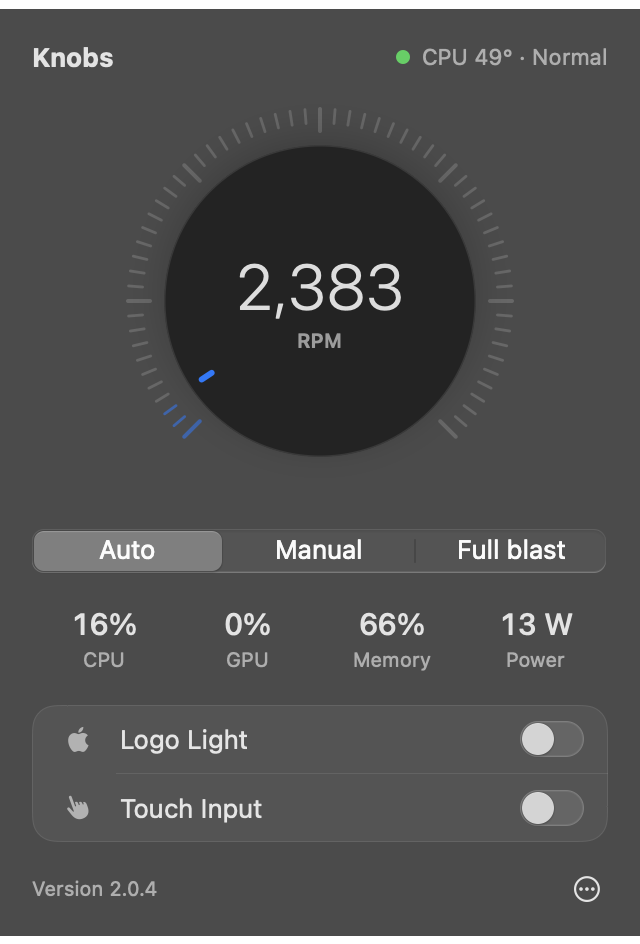
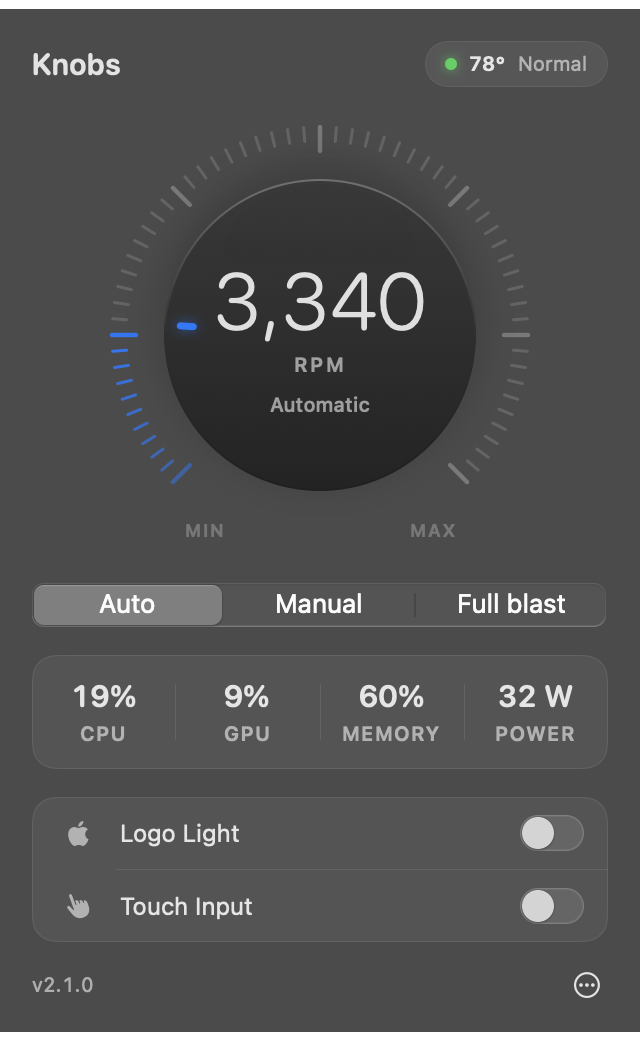
Popover redesign by Suzie: roomier knob with state label and min/max, stats panel, status pill; 2.1.0

diff --git a/Sources/Knobs/PopoverView.swift b/Sources/Knobs/PopoverView.swift
@@ -13,7 +13,7 @@ struct PopoverView: View {
     @EnvironmentObject var updater: Updater
 
     var body: some View {
-        VStack(spacing: 16) {
+        VStack(spacing: 14) {
             header
             FanKnob()
             fanControls
@@ -37,13 +37,18 @@ struct PopoverView: View {
             return t >= 95 ? ("Hot", Theme.hot) : (t >= 82 ? ("Warm", Theme.warm) : ("Normal", .green))
         }()
         return HStack {
-            Text("Knobs").font(.headline)
+            Text("Knobs").font(.system(.title3, design: .rounded).weight(.semibold))
             Spacer()
             if let t {
                 HStack(spacing: 6) {
-                    Circle().fill(dot).frame(width: 7, height: 7)
-                    Text("CPU \(Int(t))\u{00B0} \u{00B7} \(word)").font(.subheadline).monospacedDigit().foregroundStyle(.secondary)
+                    Circle().fill(dot).frame(width: 6, height: 6).shadow(color: dot.opacity(0.7), radius: 3)
+                    Text("\(Int(t))\u{00B0}").font(.caption.weight(.semibold)).monospacedDigit()
+                    Text(word).font(.caption).foregroundStyle(.secondary)
                 }
+                .padding(.horizontal, 10).padding(.vertical, 5)
+                .background(Capsule().fill(Color.primary.opacity(0.07)))
+                .overlay(Capsule().strokeBorder(Color.primary.opacity(0.08), lineWidth: 0.5))
+                .help("CPU temperature")
             }
         }
     }
@@ -65,15 +70,27 @@ struct PopoverView: View {
         case .notInstalled:
             setup("Fan control needs a one-time approval.", "Set Up\u{2026}")
         case .unavailable(let why):
-            Text(why + " Monitoring still works.").font(.caption).foregroundStyle(.secondary).multilineTextAlignment(.center)
+            HStack(alignment: .top, spacing: 8) {
+                Image(systemName: "info.circle").font(.system(size: 13, weight: .medium)).foregroundStyle(.secondary)
+                Text(why + " Monitoring still works.").font(.caption).foregroundStyle(.secondary).fixedSize(horizontal: false, vertical: true)
+                Spacer(minLength: 0)
+            }
+            .padding(.horizontal, 4)
         }
     }
 
     private func setup(_ text: String, _ button: String) -> some View {
-        VStack(spacing: 8) {
-            Text(text).font(.callout).foregroundStyle(.secondary).multilineTextAlignment(.center)
-            Button(button) { helper.enable() }.buttonStyle(.borderedProminent).controlSize(.regular)
+        HStack(alignment: .center, spacing: 12) {
+            Image(systemName: "lock.shield").font(.title2).symbolRenderingMode(.hierarchical)
+                .foregroundStyle(Color.accentColor).frame(width: 28)
+            VStack(alignment: .leading, spacing: 8) {
+                Text(text).font(.callout).foregroundStyle(.secondary).fixedSize(horizontal: false, vertical: true)
+                Button(button) { helper.enable() }.buttonStyle(.borderedProminent).controlSize(.small)
+            }
+            Spacer(minLength: 0)
         }
+        .padding(12).frame(maxWidth: .infinity, alignment: .leading)
+        .surface()
     }
 
     // MARK: numbers
@@ -84,16 +101,23 @@ struct PopoverView: View {
         let power = s.systemPowerWatts.map { "\(Int($0)) W" } ?? (s.batteryLevel.map { "\(Int($0 * 100))%" } ?? "\u{2013}")
         return HStack(spacing: 0) {
             stat(pct(s.cpuLoad), "CPU")
+            statDivider
             stat(pct(s.gpuLoad), "GPU")
+            statDivider
             stat(pct(s.memoryUsed), "Memory")
+            statDivider
             stat(power, s.systemPowerWatts != nil ? "Power" : "Battery")
         }
+        .padding(.vertical, 11)
+        .surface()
     }
 
+    private var statDivider: some View { Rectangle().fill(Color.primary.opacity(0.10)).frame(width: 0.5, height: 28) }
+
     private func stat(_ value: String, _ label: String) -> some View {
-        VStack(spacing: 2) {
-            Text(value).font(.title3.weight(.medium)).monospacedDigit().numericFlip()
-            Text(label).font(.caption).foregroundStyle(.secondary)
+        VStack(spacing: 3) {
+            Text(value).font(.system(.title3, design: .rounded).weight(.semibold)).monospacedDigit().numericFlip()
+            Text(label.uppercased()).font(.system(size: 10, weight: .semibold)).tracking(0.6).foregroundStyle(.secondary)
         }.frame(maxWidth: .infinity)
     }
 
@@ -104,8 +128,7 @@ struct PopoverView: View {
     }
 
     private var switches: some View {
-        GroupBox26 {
-            VStack(spacing: 0) {
+        VStack(spacing: 0) {
                 if Capabilities.hasLogoLight {
                     switchRow("apple.logo", "Logo Light", Binding(get: { logo.isOn }, set: { _ in logo.toggle() }), busy: logo.isWorking)
                 }
@@ -116,19 +139,19 @@ struct PopoverView: View {
                 if let m = logo.errorMessage {
                     Text(m).font(.caption).foregroundStyle(Theme.warm).frame(maxWidth: .infinity, alignment: .leading).padding(.horizontal, 12).padding(.bottom, 8)
                 }
-            }
         }
+        .surface()
     }
 
     private func switchRow(_ icon: String, _ title: String, _ isOn: Binding<Bool>, busy: Bool = false) -> some View {
         HStack(spacing: 10) {
-            Image(systemName: icon).font(.body).foregroundStyle(.secondary).frame(width: 22)
-            Text(title)
+            Image(systemName: icon).font(.system(size: 13, weight: .medium)).foregroundStyle(.secondary).frame(width: 22)
+            Text(title).font(.callout)
             Spacer()
             if busy { ProgressView().controlSize(.small) }
             Toggle(title, isOn: isOn).toggleStyle(.switch).labelsHidden().controlSize(.small).disabled(busy)
         }
-        .padding(.horizontal, 12).padding(.vertical, 8)
+        .padding(.horizontal, 12).padding(.vertical, 9)
     }
 
     // MARK: footer
@@ -140,7 +163,7 @@ struct PopoverView: View {
                 Button("Update to \(r.version)") { Task { await updater.install(r) } }.buttonStyle(.borderedProminent).controlSize(.small)
             case .working(let step): Text(step).font(.caption).foregroundStyle(.secondary)
             case .failed(let m): Text(m).font(.caption).foregroundStyle(Theme.warm).lineLimit(2)
-            default: Text("Version \(updater.currentVersion)").font(.caption).foregroundStyle(.secondary)
+            default: Text("v\(updater.currentVersion)").monospacedDigit().font(.caption).foregroundStyle(.secondary)
             }
             Spacer()
             Menu {
@@ -166,7 +189,8 @@ struct FanKnob: View {
     @EnvironmentObject var helper: HelperClient
     @State private var lastSend = Date.distantPast
     @State private var pressed = false
-    private let size: CGFloat = 196
+    @Environment(\.colorScheme) private var scheme
+    private let size: CGFloat = 212
     private let startDeg = 225.0, sweep = 270.0
     private let ticks = 61
 
@@ -181,15 +205,16 @@ struct FanKnob: View {
     }
     private var rpm: Int { Int((fan.fans.map(\.actual).max() ?? 0).rounded()) }
     private var interactive: Bool { helper.state == .ready }
-    private var capSize: CGFloat { size - 40 }
+    private var capSize: CGFloat { size - 56 }
+    private var modeLabel: String { fan.mode == .auto ? "Automatic" : (fan.mode == .full ? "Full blast" : "Manual") }
 
     var body: some View {
         ZStack {
             // soft halo behind the dial while the user is in control
-            Circle().fill(Color.accentColor.opacity(fan.mode == .auto ? 0.0 : 0.18)).blur(radius: 26).frame(width: capSize, height: capSize)
+            Circle().fill(Color.accentColor.opacity(fan.mode == .auto ? 0.0 : 0.22)).blur(radius: 28).frame(width: capSize + 20, height: capSize + 20)
                 .animation(.easeOut(duration: 0.4), value: fan.mode)
 
-            // machined tick ring
+            // machined tick ring: lit ticks warm up toward the current value
             Canvas { ctx, sz in
                 let c = CGPoint(x: sz.width / 2, y: sz.height / 2)
                 let outer = sz.width / 2 - 2
@@ -197,37 +222,47 @@ struct FanKnob: View {
                     let t = Double(i) / Double(ticks - 1)
                     let a = (startDeg - sweep * t) * .pi / 180
                     let major = i % 10 == 0
-                    let len: CGFloat = major ? 11 : 7
+                    let len: CGFloat = major ? 12 : 7
                     var p = Path()
                     p.move(to: CGPoint(x: c.x + cos(a) * (outer - len), y: c.y - sin(a) * (outer - len)))
                     p.addLine(to: CGPoint(x: c.x + cos(a) * outer, y: c.y - sin(a) * outer))
                     let lit = t <= fraction + 0.0001
-                    let alpha = lit ? (fan.mode == .auto ? 0.55 : 1.0) : 0.18
-                    ctx.stroke(p, with: .color((lit ? Color.accentColor : Color.primary).opacity(alpha)), style: StrokeStyle(lineWidth: major ? 2 : 1.4, lineCap: .round))
+                    let strength = fan.mode == .auto ? 0.5 : 0.7
+                    let alpha = lit ? strength + (1 - strength) * (fraction > 0 ? t / max(fraction, 0.01) : 0) : (major ? 0.30 : 0.16)
+                    ctx.stroke(p, with: .color((lit ? Color.accentColor : Color.primary).opacity(alpha)), style: StrokeStyle(lineWidth: major ? 2.2 : 1.5, lineCap: .round))
                 }
             }
             .frame(width: size, height: size)
             .animation(.easeOut(duration: 0.3), value: fraction)
 
-            // cap: system material with a hairline edge
-            Circle().fill(.regularMaterial)
-                .overlay(Circle().strokeBorder(.separator, lineWidth: 0.75))
-                .frame(width: capSize, height: capSize)
-                .shadow(color: .black.opacity(0.18), radius: 10, y: 5)
+            // cap: system material with a specular rim
+            cap
                 .scaleEffect(pressed ? 0.985 : 1)
+                .animation(.spring(response: 0.25, dampingFraction: 0.7), value: pressed)
 
             // notch
-            Capsule().fill(Color.accentColor).frame(width: 3, height: 9)
-                .offset(y: -capSize / 2 + 10)
+            Capsule().fill(Color.accentColor).frame(width: 3.5, height: 10)
+                .shadow(color: Color.accentColor.opacity(0.6), radius: 3)
+                .offset(y: -capSize / 2 + 11)
                 .rotationEffect(.degrees(-135 + fraction * sweep))
                 .animation(.spring(response: 0.35, dampingFraction: 0.8), value: fraction)
 
-            VStack(spacing: 2) {
-                Text(rpm > 0 ? rpm.formatted() : "\u{2013}").font(.system(size: 32, weight: .light)).monospacedDigit().numericFlip()
-                Text("RPM").font(.caption2.weight(.semibold)).foregroundStyle(.secondary)
+            VStack(spacing: 3) {
+                Text(rpm > 0 ? rpm.formatted() : "\u{2013}")
+                    .font(.system(size: 40, weight: .light, design: .rounded)).monospacedDigit().numericFlip()
+                Text("RPM").font(.system(size: 10, weight: .semibold)).tracking(1.2).foregroundStyle(.secondary)
+                Text(modeLabel).font(.caption2.weight(.medium))
+                    .foregroundStyle(fan.mode == .auto ? Color.secondary : Color.accentColor)
+                    .padding(.top, 4)
             }
+
+            // range captions under the open end of the arc
+            Text("MIN").font(.system(size: 9, weight: .semibold)).tracking(0.8).foregroundStyle(.tertiary)
+                .offset(x: -size * 0.27, y: size * 0.46)
+            Text("MAX").font(.system(size: 9, weight: .semibold)).tracking(0.8).foregroundStyle(.tertiary)
+                .offset(x: size * 0.27, y: size * 0.46)
         }
-        .frame(width: size, height: size)
+        .frame(width: size, height: size + 8)
         .contentShape(Circle())
         .gesture(DragGesture(minimumDistance: 0)
             .onChanged { v in pressed = true; turn(to: v.location, final: false) }
@@ -236,8 +271,20 @@ struct FanKnob: View {
         .help(interactive ? "Drag to set fan speed" : "Fan speed (monitor only)")
     }
 
+    @ViewBuilder private var cap: some View {
+        let rim = LinearGradient(colors: [Color.white.opacity(scheme == .dark ? 0.28 : 0.9), Color.white.opacity(0.0), Color.black.opacity(0.10)],
+                                 startPoint: .top, endPoint: .bottom)
+        do {
+            Circle().fill(.regularMaterial)
+                .overlay(Circle().fill(LinearGradient(colors: [Color.white.opacity(scheme == .dark ? 0.10 : 0.45), .clear], startPoint: .top, endPoint: .bottom)))
+                .overlay(Circle().strokeBorder(rim, lineWidth: 1))
+                .frame(width: capSize, height: capSize)
+                .shadow(color: .black.opacity(0.20), radius: 12, y: 6)
+        }
+    }
+
     private func turn(to p: CGPoint, final: Bool) {
-        let dx = p.x - size / 2, dy = -(p.y - size / 2)
+        let dx = p.x - size / 2, dy = -(p.y - (size + 8) / 2)
         guard hypot(dx, dy) > 16 else { return }
         var theta = atan2(dy, dx) * 180 / .pi; if theta < 0 { theta += 360 }
         var delta = startDeg - theta; if delta < 0 { delta += 360 }

diff --git a/Sources/Knobs/Glass.swift b/Sources/Knobs/Glass.swift
@@ -28,3 +28,8 @@ struct GroupBox26<Content: View>: View {
             .overlay(shape.strokeBorder(Color.primary.opacity(0.10), lineWidth: 0.5))
     }
 }
+
+extension View {
+    /// The one grouped surface used for stats, switches and the setup prompt.
+    func surface() -> some View { GroupBox26 { self } }
+}
